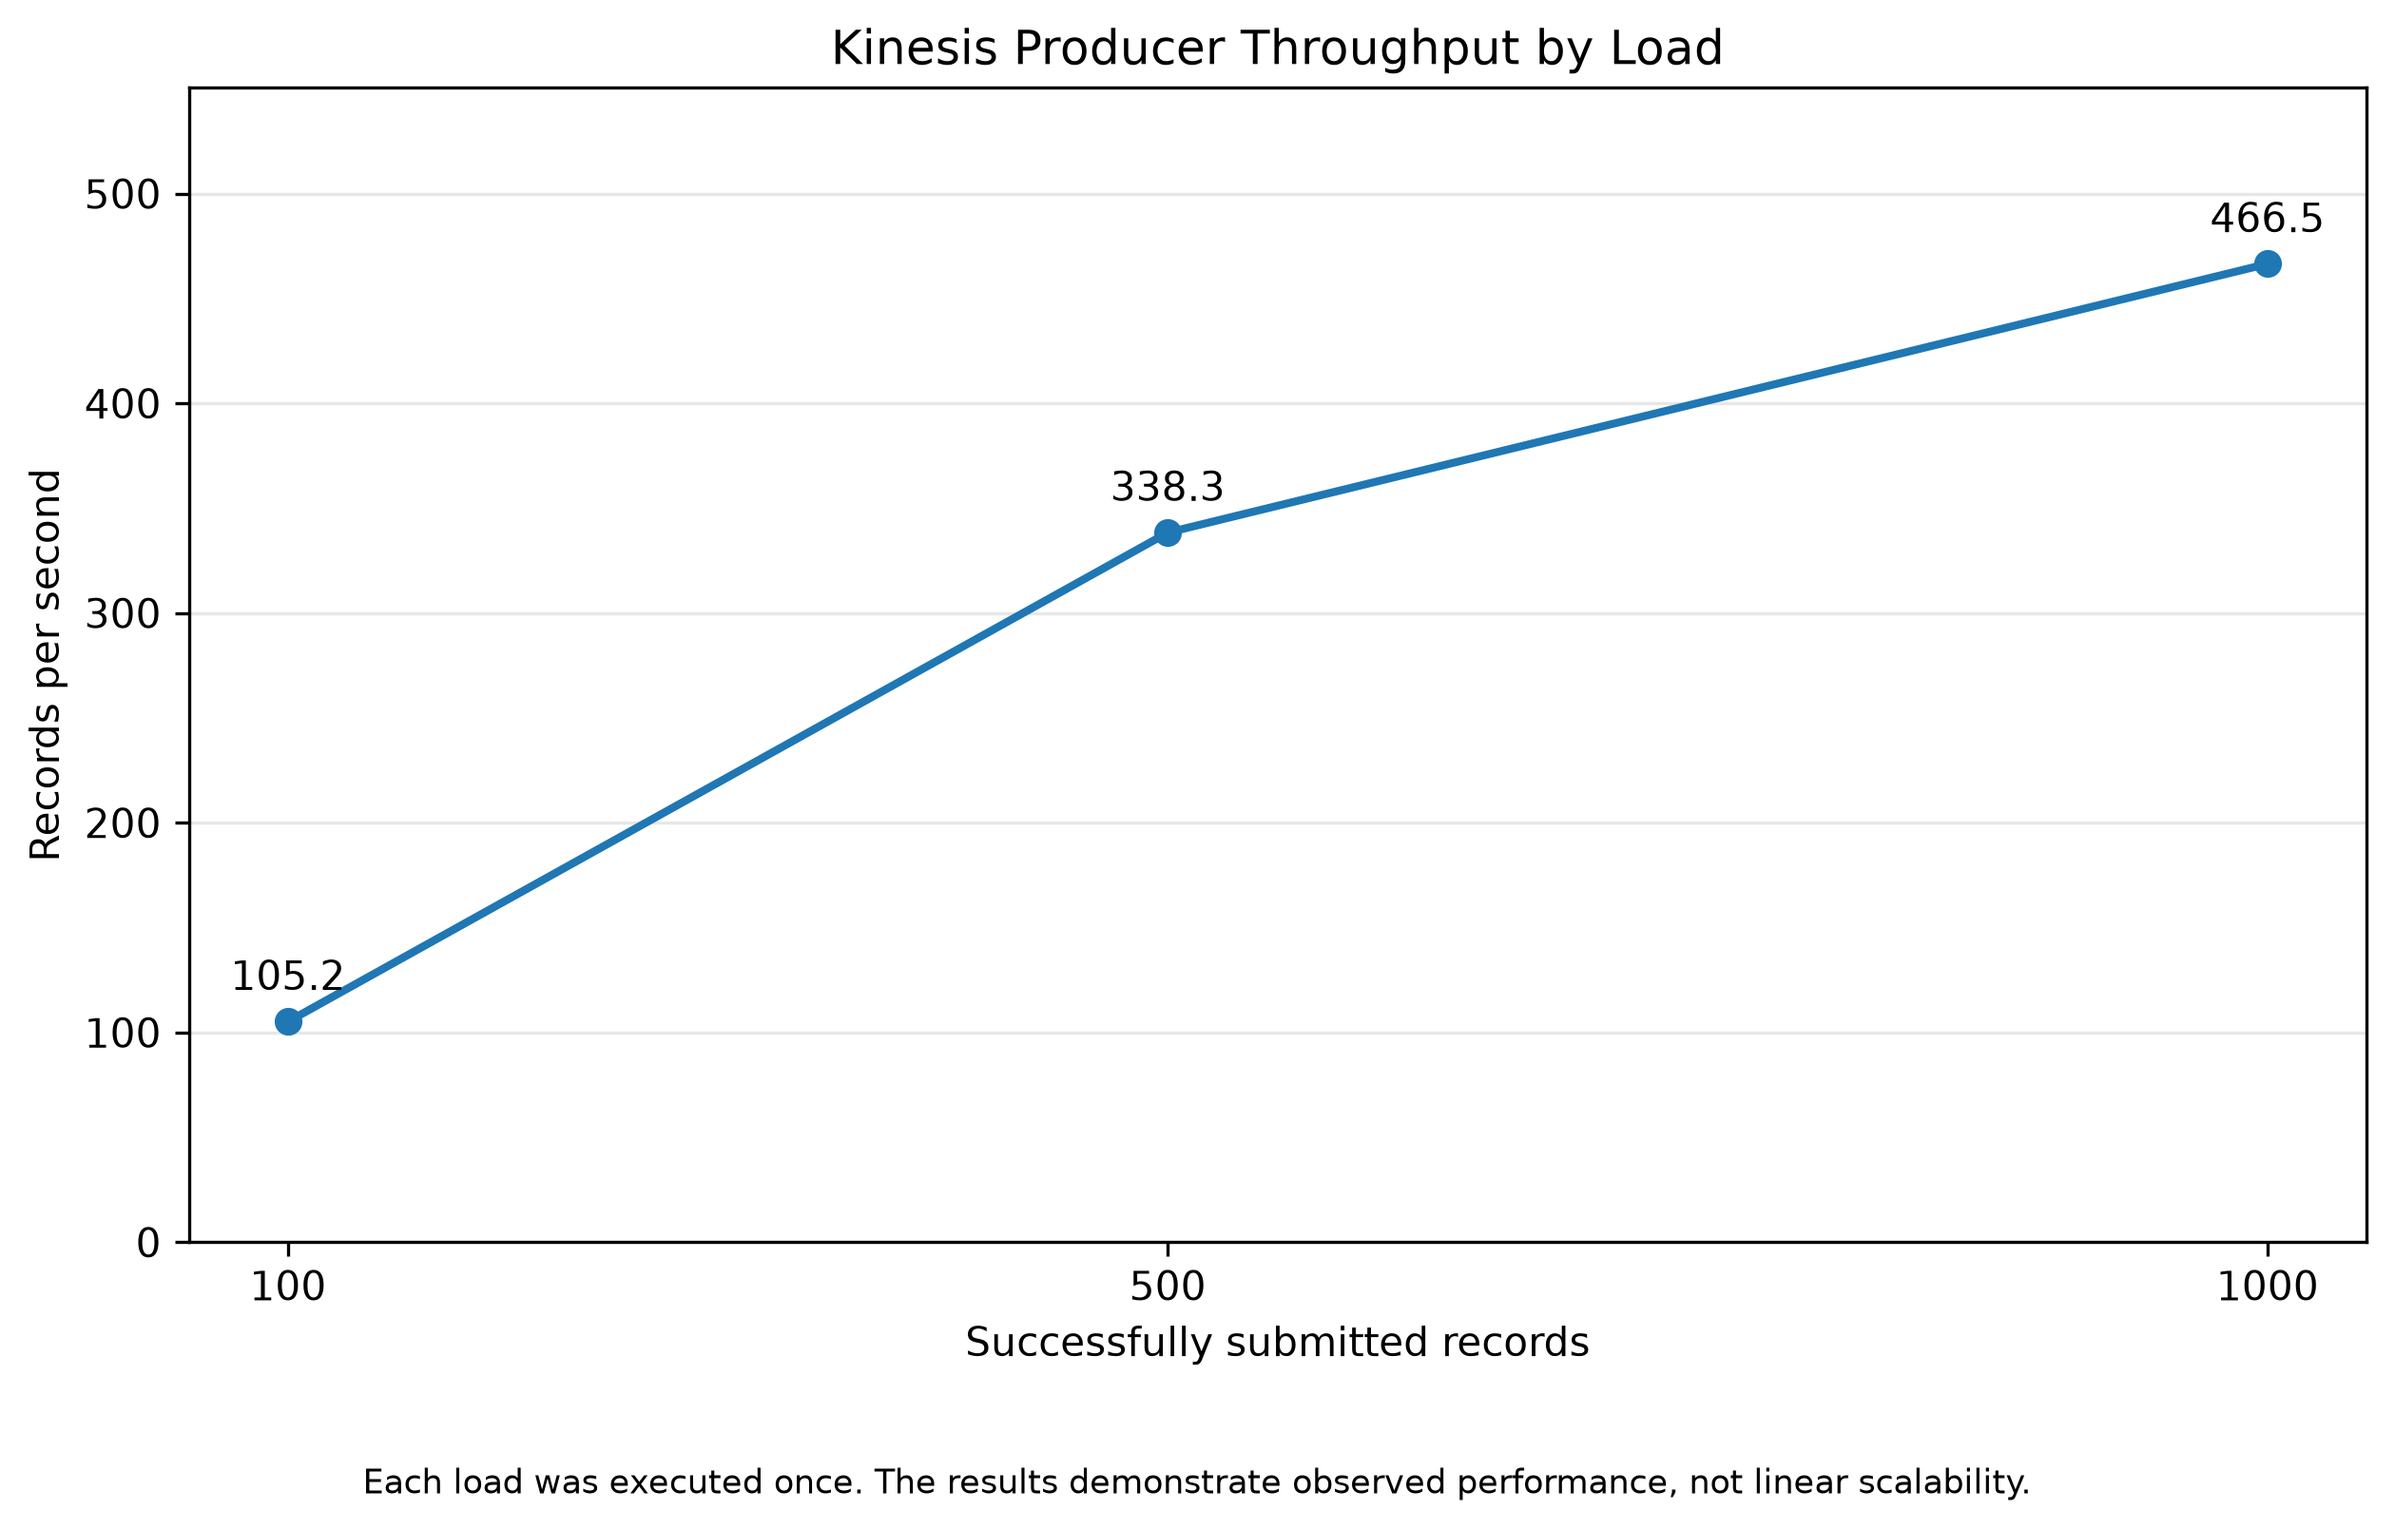
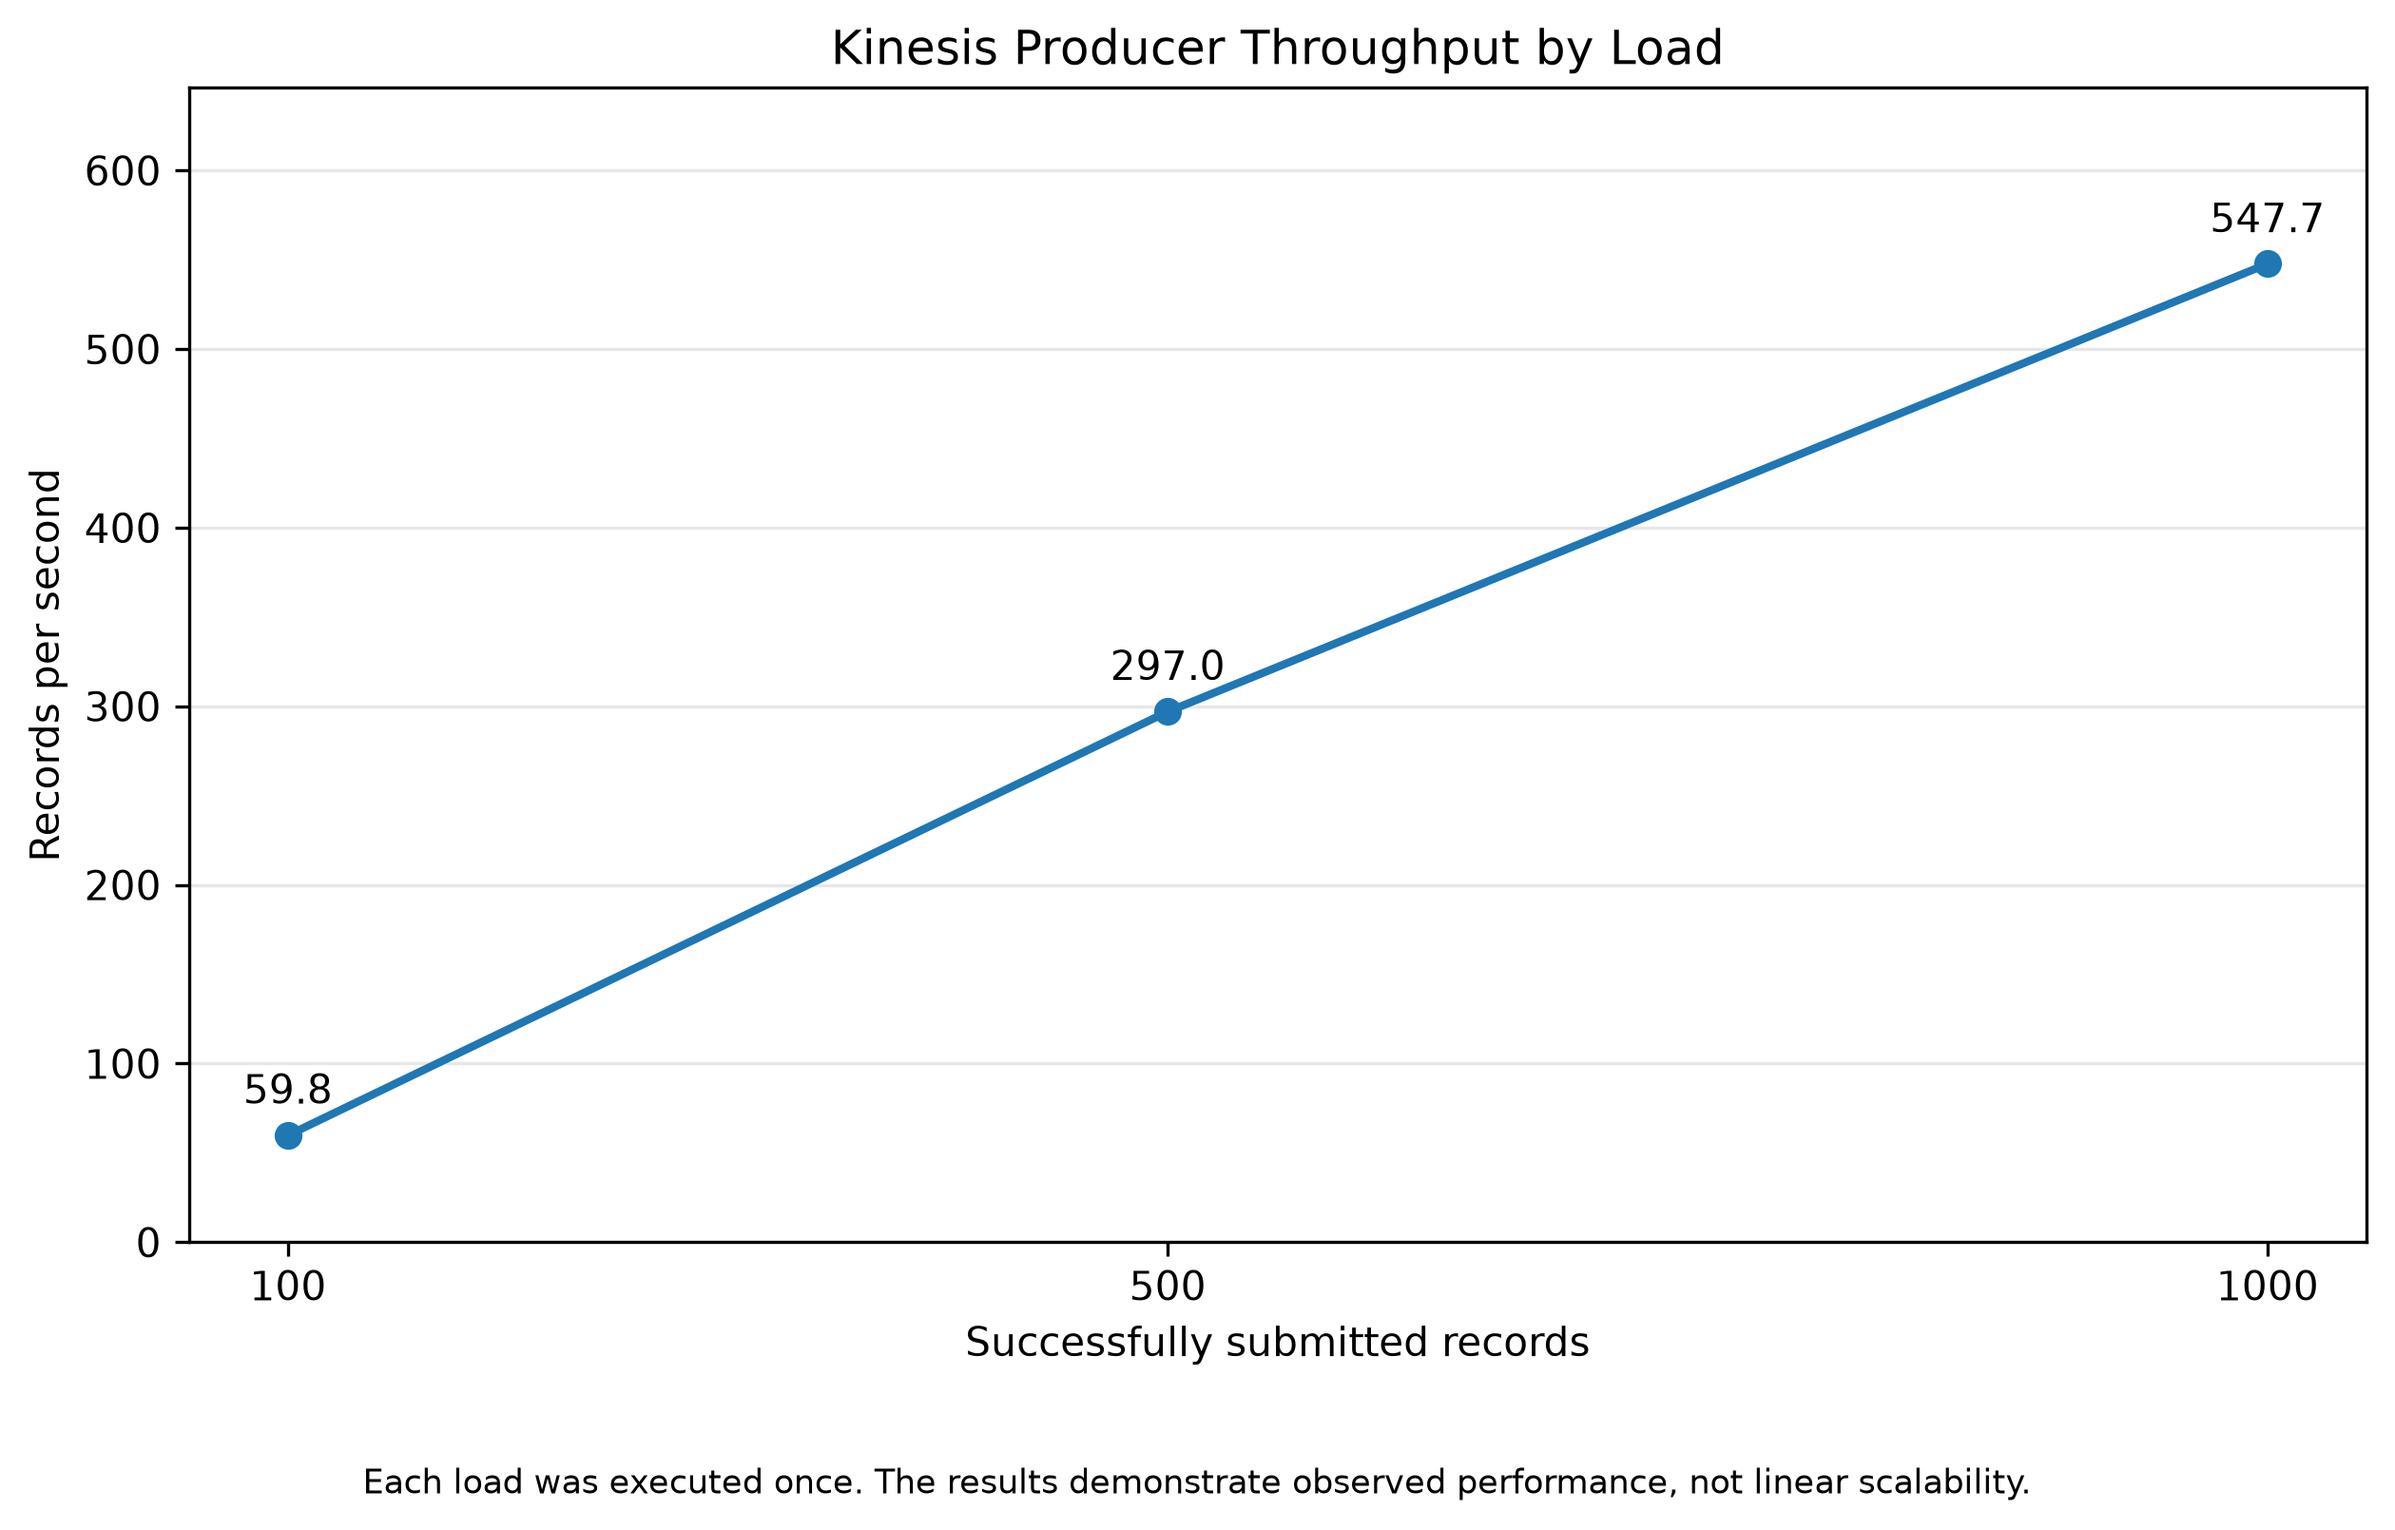
Finalize documentation and benchmark provenance

diff --git a/benchmark/generate_performance_charts.py b/benchmark/generate_performance_charts.py
@@ -34,7 +34,7 @@ def load_speed_runs() -> list[dict[str, Any]]:
     runs: list[dict[str, Any]] = []
 
     for path in BENCHMARK_DIR.glob(
-        "lambda_s3_load_*.json"
+        "lambda_s3_validation_*.json"
     ):
         document = json.loads(
             path.read_text(

diff --git a/STATUS.md b/STATUS.md
@@ -30,12 +30,14 @@ compare recent endpoint RPM with a historical baseline.
 - **Automated tests:** 64 passed
 - **Performance analysis:** Complete
 - **Repository review and merge into `main`:** Complete
-- **Technical report:** Final review in progress
-- **Presentation, demonstration and submission:** Pending
+- **Technical report:** Complete
+- **Presentation and demonstration:** Complete
+- **Final submission:** Complete
 
 No additional architecture or repository integration work is required. The
-remaining work is limited to final report checks, the presentation and
-demonstration, submission and preservation of the submission receipt.
+final report and demonstration video are complete. The remaining work is
+limited to submitting the final report and the `main` repository link, then
+preserving the submission receipt.
 
 ## Team Responsibilities
 
@@ -735,14 +737,10 @@ summary ends with `OK` and the process exit code is `0`.
 - [x] Confirm that `main` was clean and synchronised
 - [x] Commit and push the final repository structure and evidence
 - [x] Integrate the final concurrent EMR auto-scaling trigger evidence
-
-## Remaining Tasks
-
-- [ ] Insert the final presentation URL and signatures in the report
-- [ ] Export and visually verify the final PDF
-- [ ] Prepare presentation slides, demonstration notes and backup video
-- [ ] Submit the report and `main` repository link
-- [ ] Save the submission receipt
+- [x] Insert the final presentation URL and signatures in the report
+- [x] Export and visually verify the final PDF
+- [x] Prepare presentation slides, demonstration notes and backup video
+- [x] Submit the report and `main` repository link
 
 ### Final EMR auto-scaling attempt
 
@@ -754,3 +752,5 @@ summary ends with `OK` and the process exit code is `0`.
 - No additional core instance was present.
 - No verified scale-out event occurred.
 - Evidence is stored in `docs/evidence/batch/12_*` through `16_*`.
+
+| Final report and demonstration | Complete |

diff --git a/results/README.md b/results/README.md
@@ -17,3 +17,20 @@ Final outputs combining real historical batch metrics with the recent global spe
 Local streaming, Amazon Kinesis, AWS Lambda, S3 and global-aggregation benchmark results.
 
 Report-ready charts, logs and screenshots are stored under `docs/evidence/`.
+
+### Authoritative Lambda-S3 validation runs
+
+The files named `lambda_s3_validation_*.json` under
+`speed/benchmarks/` are the authoritative deployed
+Kinesis-Lambda-S3 executions used in Table III of the final report and by the
+performance-chart generator.
+
+The reported results are:
+
+- 100 events: 59.831 records/s and 3.604 s snapshot observation;
+- 500 events: 297.018 records/s and 4.663 s snapshot observation;
+- 1,000 events: 547.726 records/s and 180.952 s observation timeout.
+
+Earlier exploratory executions named `lambda_s3_load_*.json` are retained
+under `speed/benchmarks/superseded/` for traceability. They are not the source
+of the final reported values.

diff --git a/README.md b/README.md
@@ -20,7 +20,7 @@ The technical implementation is complete on the `main` branch.
 | Automated tests | 64 passed |
 | Architecture and evidence | Complete |
 
-Detailed milestones, execution identifiers and remaining submission tasks are recorded in [`STATUS.md`](STATUS.md).
+Detailed milestones, execution identifiers and final submission status are recorded in [`STATUS.md`](STATUS.md).
 
 ## Architecture
 
@@ -260,7 +260,7 @@ results/integration/batch_stream_comparison.json
 
 ## Batch Layer
 
-The batch job reads raw Nginx combined-log records, applies the shared validation rules and generates ten output groups:
+The batch job reads records from the dataset-specific extended Nginx combined-log format, applies the shared validation rules and generates ten output groups:
 
 ```text
 requests_per_endpoint/
